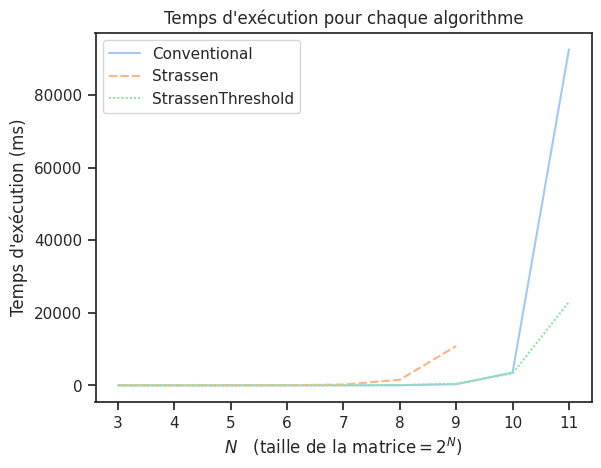
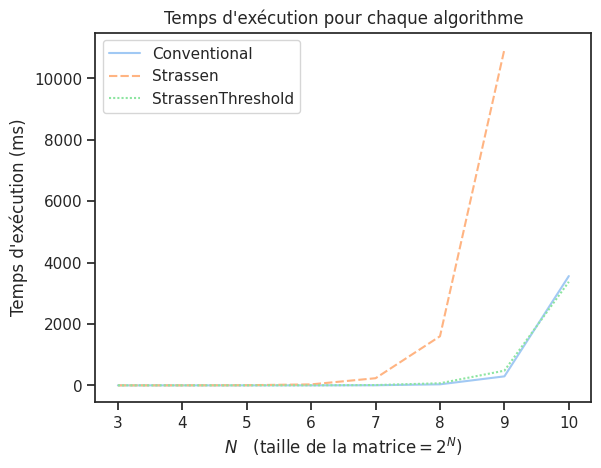
Regenerate data to correct issues with the conventional algorithm's complexity

diff --git a/TP1/analysis/strassen_thresholds.md b/TP1/analysis/strassen_thresholds.md
@@ -1,9 +1,9 @@
-|   N |            4 |            8 |           16 |          32 |           64 |          128 |          256 |
-|----:|-------------:|-------------:|-------------:|------------:|-------------:|-------------:|-------------:|
-|   3 |   0.00902017 |   0.00128743 |   0.00126637 |   0.0012385 |   0.00129753 |   0.00127933 |   0.00128427 |
-|   4 |   0.0347384  |   0.016353   |   0.00693567 |   0.0066429 |   0.00678983 |   0.0069907  |   0.00677173 |
-|   5 |   0.226225   |   0.0851729  |   0.0585242  |   0.0503946 |   0.050219   |   0.0500328  |   0.0510413  |
-|   6 |   1.41257    |   0.589577   |   0.395574   |   0.382649  |   0.39222    |   0.397459   |   0.397557   |
-|   7 |   9.63782    |   3.96966    |   2.65211    |   2.67466   |   2.92829    |   3.2693     |   3.21573    |
-|   8 |  69.8671     |  26.5682     |  18.5439     |  20.2875    |  20.3879     |  23.6556     |  33.3837     |
-|   9 | 488.927      | 185.904      | 131.552      | 137.331     | 150.983      | 166.331      | 241.861      |
+|   N |           4 |            8 |           16 |           32 |          64 |          128 |          256 |
+|----:|------------:|-------------:|-------------:|-------------:|------------:|-------------:|-------------:|
+|   3 |   0.0095314 |   0.00128483 |   0.00124387 |   0.00130677 |   0.0014635 |   0.0012196  |   0.00124277 |
+|   4 |   0.036475  |   0.0167781  |   0.0066243  |   0.00665267 |   0.0067805 |   0.00666763 |   0.00649683 |
+|   5 |   0.219015  |   0.0841783  |   0.0610891  |   0.0499732  |   0.0507536 |   0.0506384  |   0.0491893  |
+|   6 |   1.45042   |   0.552184   |   0.412935   |   0.383876   |   0.396959  |   0.399776   |   0.392596   |
+|   7 |  10.7178    |   3.75928    |   2.67429    |   2.6062     |   2.95167   |   3.20512    |   3.22641    |
+|   8 |  71.6636    |  26.1678     |  19.0068     |  18.8501     |  20.2972    |  22.942      |  33.5418     |
+|   9 | 491.482     | 184.545      | 132.567      | 135.798      | 149.124     | 164.904      | 241.079      |

diff --git a/TP1/analysis/execution_times.md b/TP1/analysis/execution_times.md
@@ -1,11 +1,10 @@
-|   N |   Conventional |     Strassen |   StrassenThreshold |
-|----:|---------------:|-------------:|--------------------:|
-|   3 |      0.0012167 |     0.1063   |           0.0090715 |
-|   4 |      0.0069032 |     0.697635 |           0.0367649 |
-|   5 |      0.0530111 |     4.62013  |           0.209763  |
-|   6 |      0.414151  |    32.2666   |           1.42877   |
-|   7 |      3.31166   |   224.954    |           9.73088   |
-|   8 |     33.3067    |  1551.74     |          66.6437    |
-|   9 |    313.228     | 10842        |         467.435     |
-|  10 |   3520.61      |   nan        |        3272.01      |
-|  11 |  92562.1       |   nan        |       22982.6       |
+|   N |   Conventional |      Strassen |   StrassenThreshold |
+|----:|---------------:|--------------:|--------------------:|
+|   3 |      0.0012435 |     0.0984838 |           0.0080444 |
+|   4 |      0.0065139 |     0.658755  |           0.0346444 |
+|   5 |      0.0496214 |     4.76822   |           0.210648  |
+|   6 |      0.401135  |    31.6425    |           1.3932    |
+|   7 |      3.27895   |   232.534     |           9.65034   |
+|   8 |     33.3021    |  1598.57      |          68.0739    |
+|   9 |    293         | 10940.4       |         478.896     |
+|  10 |   3558.62      |   nan         |        3372.38      |

diff --git a/TP1/README.md b/TP1/README.md
@@ -5,7 +5,7 @@
 ```sh
 mkdir data
 cd data
-../inst_gen.py -S 5 -t 7 -n 5 -r 8775
+../inst_gen.py -S 3 -t 8 -n 5 -r 8775
 ```
 
 ## Build implementation
